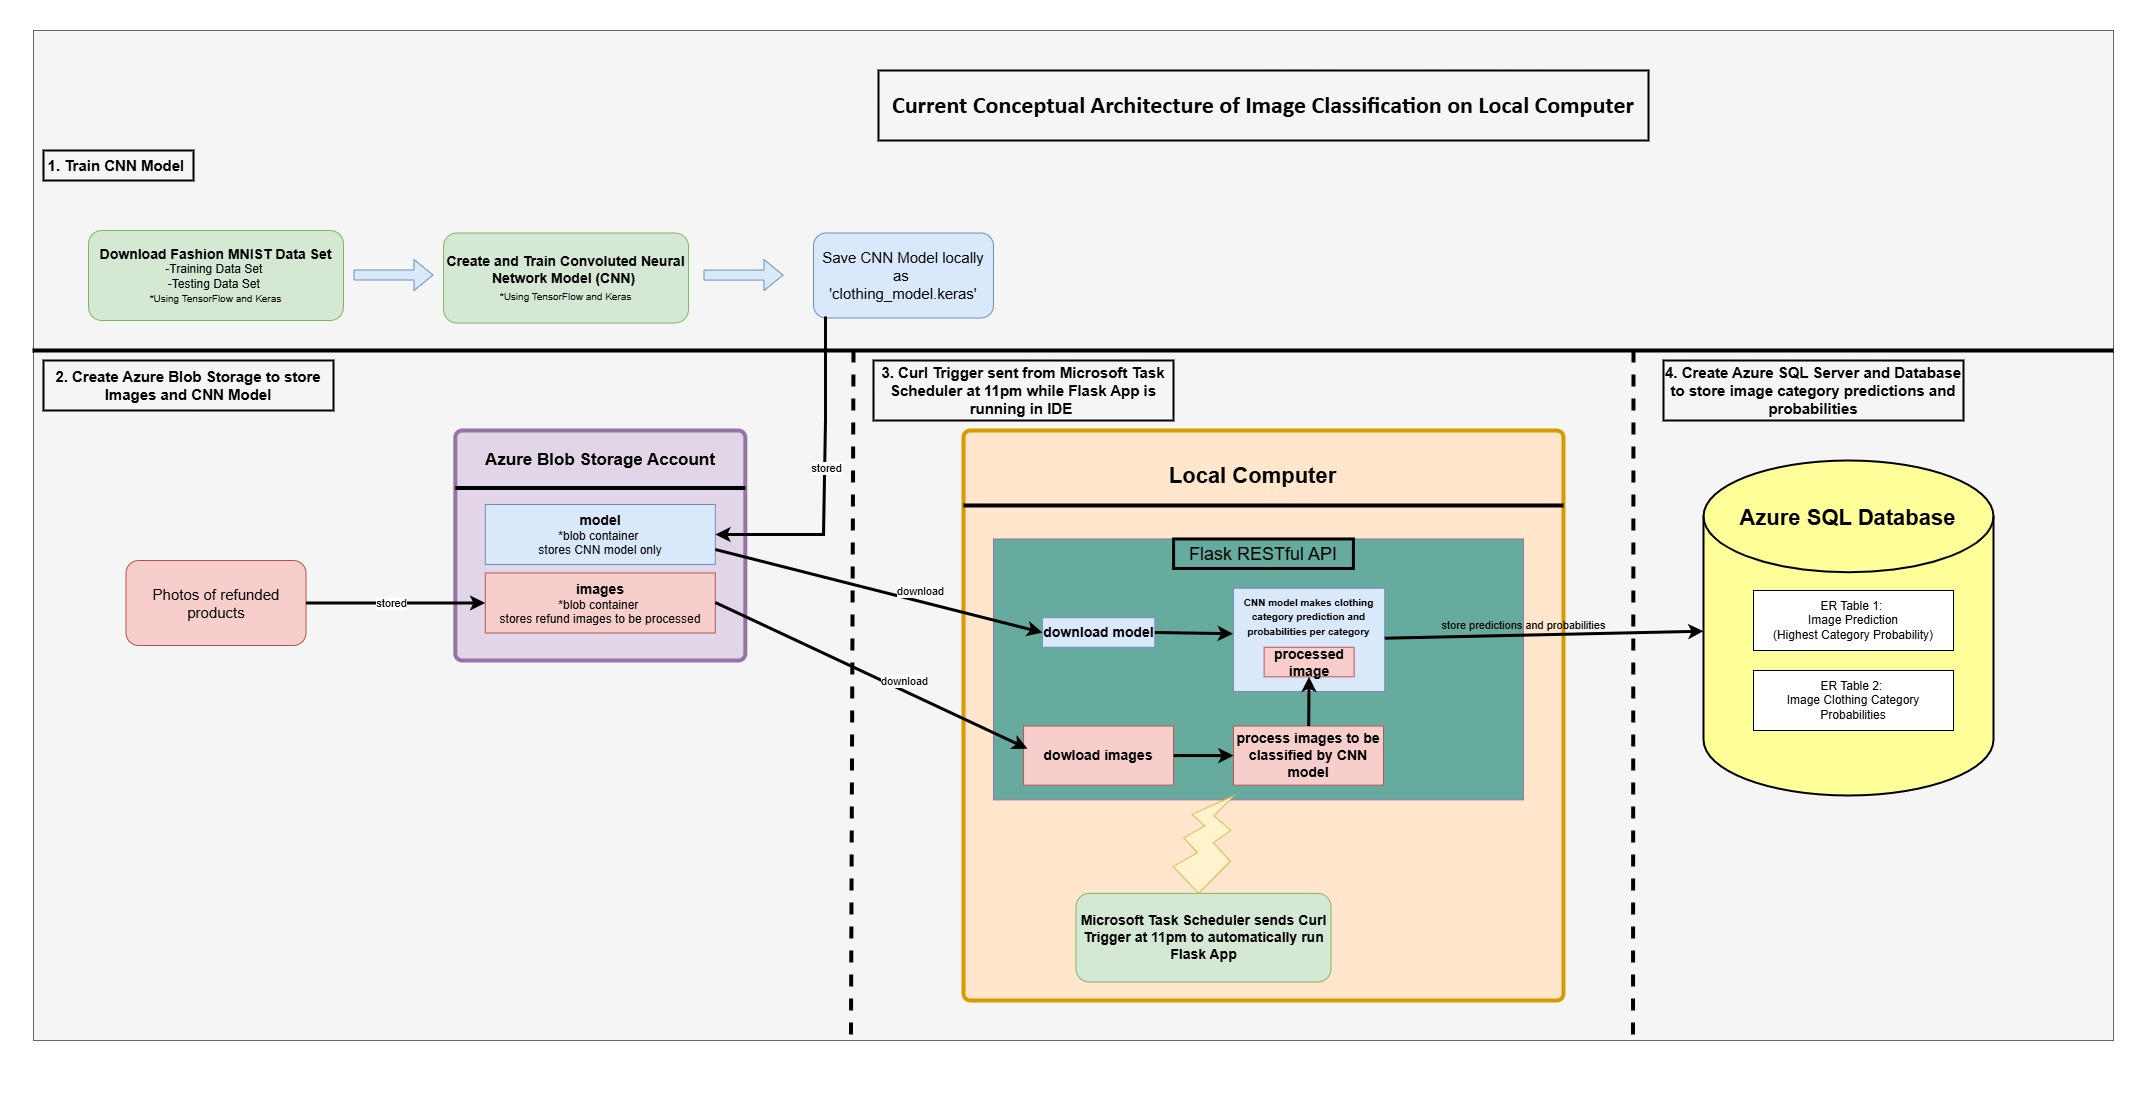
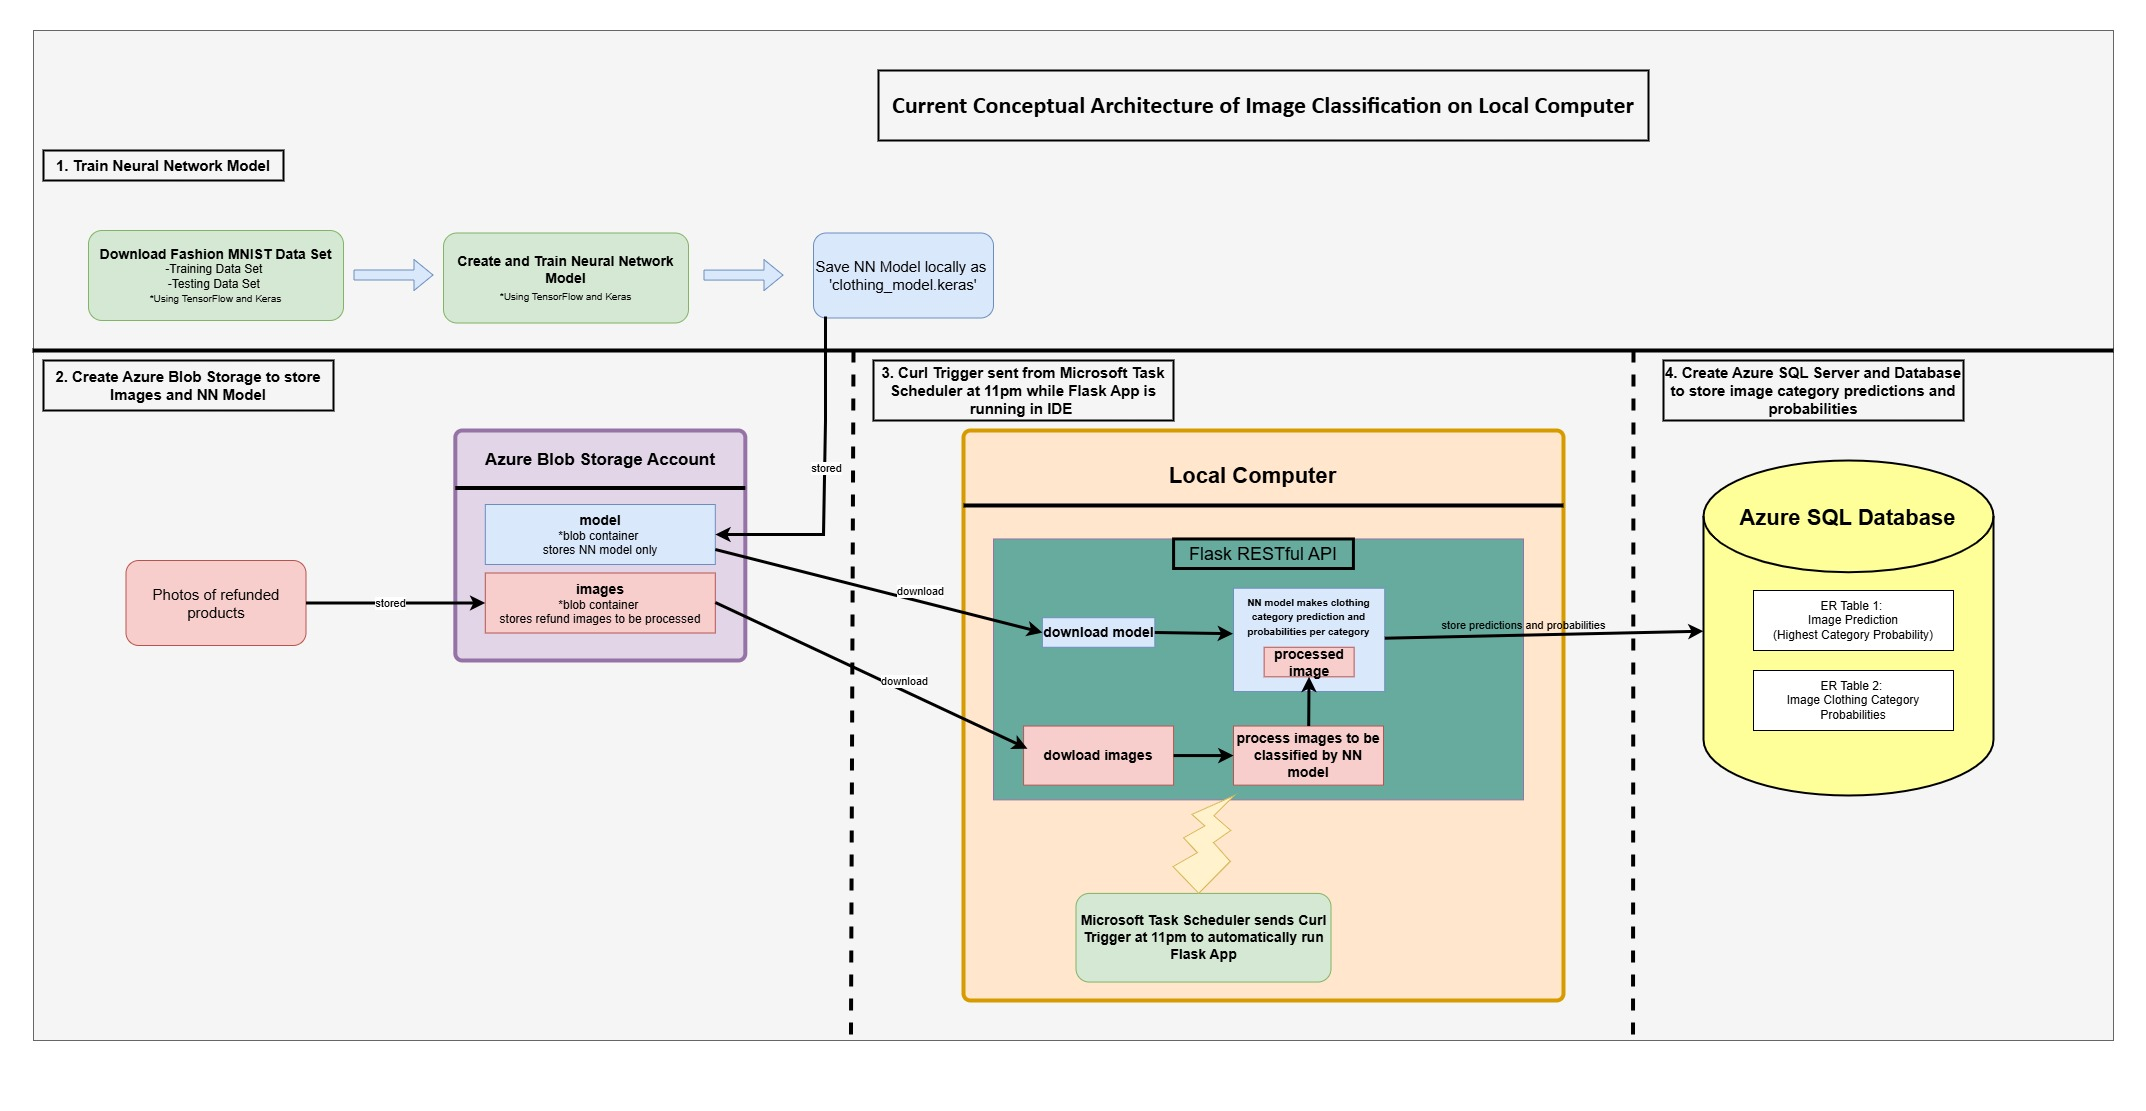
update visuals

diff --git a/README.md b/README.md
@@ -24,7 +24,7 @@ The design goal:
     using Azure SQL Server and Database
 
 # Original Concept Architecture:
-![ImageclassificationConcept.drawio.png](Images_ReadMe%2FImageclassificationConcept.drawio.png)
+![ImageclassificationConcept (2).jpg](Images_ReadMe%2FImageclassificationConcept%20%282%29.jpg)
 
 # SQL Database Entity-Relationship Diagram
 
